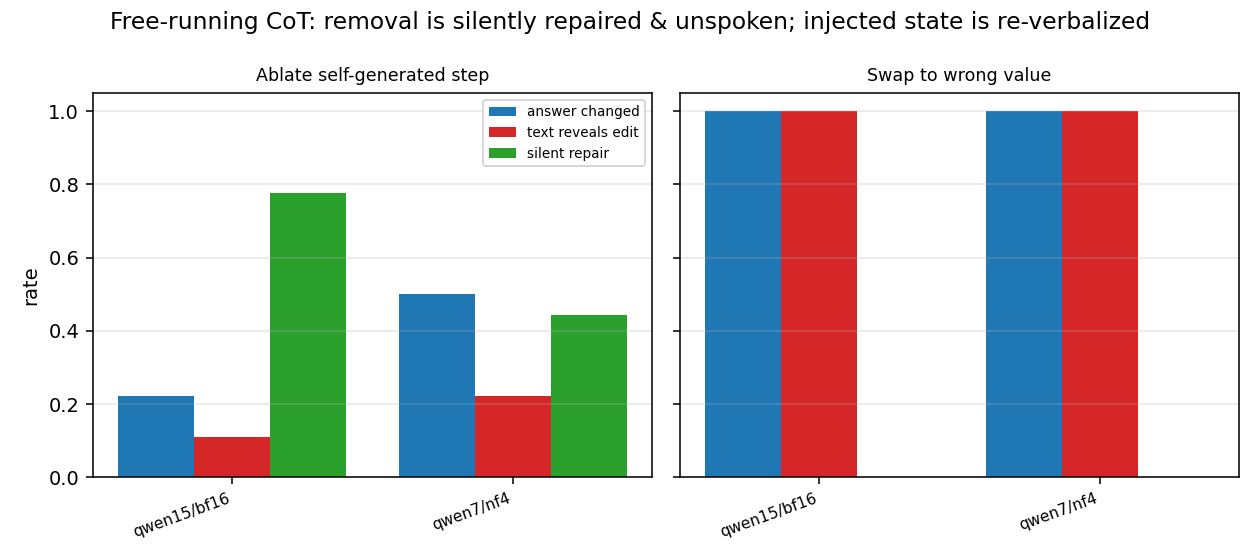
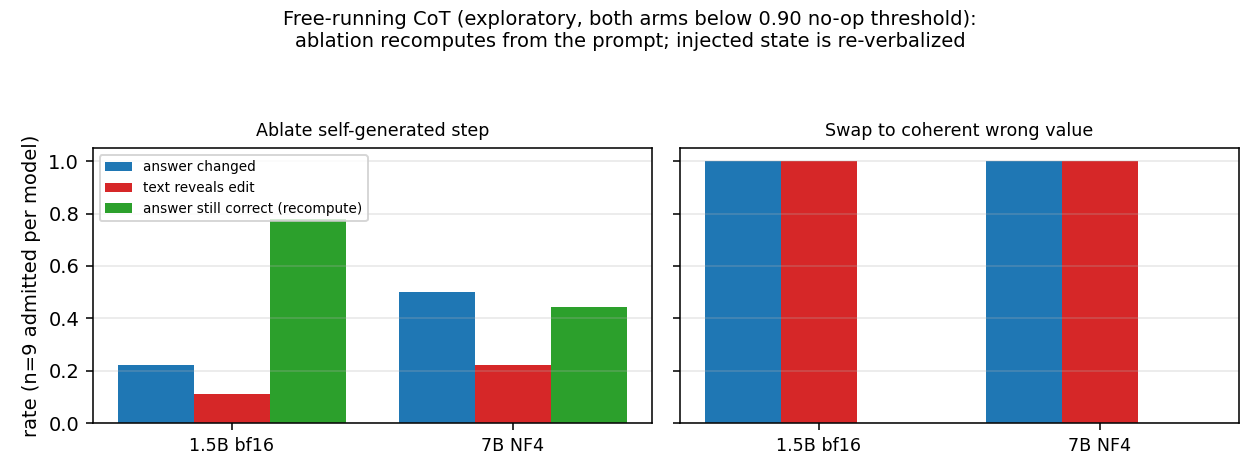
formed-state-faithfulness: round-2 evidence fixes; parked (4/10, fold recommended)
Claude-Session: https://claude.ai/code/session_01UE7Sj5FhHtBTTsNDuF6246

diff --git a/papers/formed-state-faithfulness/reviews/round2-monitoring-reviewer.md b/papers/formed-state-faithfulness/reviews/round2-monitoring-reviewer.md
@@ -1,0 +1,56 @@
+---
+title: "Round-2 review: The Answer Follows the Cache (formerly Formed-State Faithfulness)"
+reviewer: "CoT-monitoring / alignment (hostile-but-fair, external); same reviewer as round 1"
+date: 2026-10-02
+verdict: "Reject at main; weak-accept / borderline at a safety-interp workshop as a discussion note. Overall 4/10. Recommend folding into the companion paper rather than submitting separately."
+scope: "Read-only on paper.md + README.md + round1 review/response. I did not re-run jobs or recompute from raw results; all figure/number claims = asserted by the paper, not re-verified."
+---
+
+# Round 2
+
+## 1. Did the reframe fix round 1?
+
+The concession is real and well executed. The silent-repair-rises-with-scale claim — the would-be-novel empirical result in round 1 — is retracted, correctly, via the operand-cut/resample controls (§7, Table 2). Integrity is now exemplary. But conceding the headline leaves the paper *thinner*, not stronger: what remains is (a) an **injected** token-vs-state dissociation that the paper itself calls "close to a sanity check" (L120), (b) a **retracted** claim re-badged as a known caveat, and (c) a **negative** probe. Honesty about a near-tautology and two negatives does not lift the contribution.
+
+## 2. Is the remaining headline novel/useful, or trivially expected?
+
+**Largely expected, and the paper says so.** Overwriting a step's full KV span across every layer and head with a donor value's rows, then getting the donor's answer (Table 1, 100%), is resample-ablation / activation patching at saturation. The forward pass reads the cache; of course it follows the edit (L120 concedes this). The "a step-reading monitor sees nothing" half is now correctly labeled "by construction" (L140, §6) — i.e. a tautology, not a finding: you *constructed* a token/state mismatch that no natural generation produces (L32, L130).
+
+Against the named prior work the delta is modest:
+- **Lanham'23 / Turpin'23** — their contribution is natural *unfaithfulness* (the model uses a cue it doesn't state). This paper's dissociation is injected; it shows a capability, not a behavior. The "text perturbations co-vary token and state" methodological point (§4.4) is fair and is the real novelty seam, but it is a methods improvement, not a monitoring result.
+- **Pfau'24 (filler tokens)** — hidden computation that arises *under training*. Sharper than this paper on the axis that matters (natural vs injected). The "meaningful non-copied step" distinction is weaker than it sounds when the mismatch is hand-built.
+- **Korbak'25** — "reading written steps is an upper bound on monitorability" is a corollary of their framing, not a new claim.
+- **Activation patching / steering** (Vig'20, Meng ROME'22, Wang IOI'22, Geiger causal-abstraction; ActAdd/ITI) — the state-only swap and the donor-"authorship" result (§4.4, 0.59–1.00) *are* resample-ablation and representation steering. **None of this literature is cited** (§9, L194–202 cites self-repair and faithfulness only). Until it is, the "of course patching changes outputs" objection stands and novelty is overstated.
+
+The genuinely non-trivial empirical nugget is the **text-only cell scale signal** (§4.1, L100): token pull 0.47/0.56 at 0.5B → 0.00 at 1.5B → 0.10 at 7B, i.e. the answer's read-point shifts from token to cache with scale. That is *not* a priori obvious and is the one result worth building a paper around — and it is one sentence on 2–3 points with no CIs.
+
+## 3. Is it a real monitoring threat?
+
+Not yet, and §4.3 defuses its own headline: the model re-verbalizes the injected value 0.66–1.00 of the time (L122–124), so a full-transcript monitor recovers most of it. The *measured* residual monitoring gap is the minority non-re-verbalized, decision-relevant fraction — which the paper never isolates as a number. The honest reading is: on synthetic arithmetic, with a hand-built edit, the net transcript-invisible effect is small. That is a reassuring result dressed as an alarming one.
+
+## 4. Minimal experiments that would make it matter
+
+1. **Natural occurrence (the whole ballgame).** Exhibit a token/state mismatch that arises in *free* generation (not injected) where the answer follows the cache against the written token. This converts a patching demo into a monitoring finding. Named as TODO D but absent; without it there is no demonstrated faithfulness failure.
+2. **A residual that survives the transcript.** Find/construct a regime where the cache carries decision-relevant information the continuation does *not* re-verbalize, and quantify that fraction. This is the only number that makes the threat non-vacuous given §4.3.
+3. **A detector that works.** Turn the probe negative into a positive: layer-swept, held-out FPR (named at L208/L260). "Cache channel dark to text but readable by a cheap probe" would be a genuinely useful monitoring contribution. As run (single layer, λ tuned in-sample, LOO, no FPR), the negative is uninformative — it cannot support "state-aware monitoring is hard."
+
+## 5. Top-5 must-fix (with line refs)
+
+1. **Title/abstract over-read an injected edit.** "The Answer Follows the Cache" (L2/L14) implies a discovered threat; the result is an injected capability the paper calls a near-sanity-check (L120). Retitle to name the injection (e.g. "A step's formed state *can be made to* override its token"), or deliver natural occurrence (exp 1).
+2. **Lead with the measured residual, not the tautology.** §4.3 (L122–124) shows full-transcript monitoring recovers 0.66–1.00; state the net transcript-invisible, decision-relevant fraction as a single number and make *that* the monitoring claim. Right now the headline and its refutation sit in tension.
+3. **Promote and power the text-only scale signal** (§4.1, L100) — the only non-expected empirical result. Add CIs/points or concede it is underpowered (2–3 points, 3B is base).
+4. **Cite and position against activation-patching + steering** (§9, L194–202). The central method is resample-ablation + steering; omitting Vig/Meng/Wang/Geiger/ActAdd/ITI inflates novelty and leaves "of course patching changes outputs" unanswered.
+5. **Make the probe negative mean something or demote it** (§5 L140; limitations L208/L260): layer sweep + held-out FPR, or state plainly it was not tested properly and drop the "state-aware monitor is the hard part" implication.
+
+Secondary: the 3B-base-vs-Instruct confound (L56/L180/L257) and 2-points-per-axis undercut every scale statement, including the one good signal in (3); the pending 7B-Instruct (L56/L180) is load-bearing for scale and still absent.
+
+## 6. Score, tier, and separate-vs-fold
+
+**Overall 4/10.** Method and custody are strong; the exact-restore (Δ=0.0) instrument and the token×state 2×2 are citable. But the surviving empirical core is one expected (injected) dissociation, one retracted claim, and one uninformative negative — with the one non-trivial result (text-only scale signal) left underpowered and the threat largely closed by the paper's own re-verbalization number.
+
+- **Main venue (ICLR/NeurIPS): reject.** No natural occurrence, no working detector, arithmetic-only, 2-point scale axes.
+- **Safety/interp workshop (SoLaR/interp): weak-accept / borderline** as a discussion note — the exact-restore-gated dissociation method and the honest dispensability correction are worth a hallway argument.
+
+**Separate vs fold — fold.** The companion `time-formed-circuits` paper already carries the repair phenomenon and swap-authorship numbers (paper's own §9 overlap statement, L202). After the concession, this note's standalone seam is a *methods* contribution — the exact-restore 2×2 and the operand-cut dispensability control — not an independent result. Recommendation: fold the 2×2 dissociation method + the dispensability/operand-cut control into the companion paper (or a short methods note), and hold a separate submission until **either** natural occurrence (exp 1) **or** a working state-aware detector (exp 3) lands. Those are what turn this from "patching a reasoning step does what patching does" into a monitoring result.
+
+— *Measured vs asserted:* I verified paper/README text and internal consistency directly (measured); all run numbers and figures are asserted by the paper — I did not re-run jobs or re-open raw results.

diff --git a/papers/formed-state-faithfulness/reviews/round2-evidence-audit.md b/papers/formed-state-faithfulness/reviews/round2-evidence-audit.md
@@ -1,0 +1,83 @@
+# Round-2 evidence audit — formed-state-faithfulness/paper.md
+
+Auditor pass 2026-10-02. Read-only on `paper.md`. Every number in the abstract, tables, figure
+captions and body traced to `saturn/experiments/2026-10-02-cot-formed-state-faithfulness/`
+(`FINDINGS-draft.md`, `FINDINGS-addendum-2-draft.md`, `PAPER-SECTION.md`, `results/*/report.json`,
+`results/analysis-summary.json`, `results/analysis-addendum-summary.json`, `FROZEN*.json`) and the
+custody audit `research/papers/custody-audit-2026-10-02.md` (CoT + CoT addendum-2 sections). Figures
+opened and checked against the numbers. Raw report fields spot-recomputed where load-bearing.
+
+Verdict: **numbers are overwhelmingly custody-clean and trace to FINAL full post-bugfix runs.** One
+real sourcing defect (3B text-visible), a few provenance/wording flags, several round-1 custody
+issues now confirmed FIXED. No number in the paper is drawn from the cancelled job (job-366e400ba3aa)
+or from a smoke/killed run.
+
+## Claim | line | source | status
+
+| Claim | Paper line | Source | Status |
+|---|---|---|---|
+| State-only 1.00 @0.5B bf16/fp32, 1.5B bf16/fp32/NF4; 0.955 @7B; n=32/32/21/29/21/32/22 | Table 1, L108-116 | analysis-summary.json teacher monitor_blind_change_rate; 7B job-bc10cd445816 dissoc 0.9545 n22 | MATCH |
+| State-only 1.00 @3B (base) bf16, n=32 | Table 1, L115 | addendum qwen3 `swap_changed`=1.0 n32 (job-52b8771fc5ef) | MATCH (cross-worker; see F2) |
+| **Text-visible 1.00 @3B (base)** | Table 1, L115; also "1.00 everywhere" L120; App C L248 | **none — 3B control report has NO text_visible field; dissoc panel never ran 3B** | **UNSOURCED (MF1)** |
+| Text-visible 1.00 all other rows | Table 1 | analysis-summary text_visible_change_rate (0.5B/1.5B all; 7B job dissoc 1.0) | MATCH |
+| Text-only cell 0.47/0.56/0.00/0.10 (0.5B bf16/fp32; 1.5B all; 7B) | L100 | text_wrong_state_orig_rate 0.469/0.5625/0.0/0.0952 | MATCH |
+| Pre-registered E2 bar ≥0.30 met; falsifier (CI incl 0) not fired | L104 | FROZEN.json E2_monitor_blind | MATCH (prereg named 1.5B+7B; 0.5B/3B are extra — minor framing) |
+| Re-verbalization 21/32, 20/21, 29/29, 21/21, 14/21 (0.66/0.95/1.00/1.00/0.67) | L124, Fig3 | custody-audit CoT §ISSUES-1 (measured from dissoc rows) | MATCH |
+| Donor swap 0.59[.41,.75]n32 / 0.81[.62,.95]n21 / 1.00[1,1]n29 / 0.82[.64,.96]n22 | L132 | swap_cf_authored 0.594/0.810/1.0/0.818 + CIs | MATCH |
+| Probe swap-recall 0.19/0.19/0.00 vs 0.70 bar | L140, Fig4 | addendum swap_decode_mistake_recall 0.1875/0.1905/0.0 | MATCH |
+| Loose flag 0.84/0.81/0.97; base-decode 0.44/0.28/0.095 vs chance 0.05/0.05/0.062 | L142 | swap_flag_recall; base_decode_acc; chance_decode | MATCH |
+| Table 2 R1 0.188/0.762/0.531; R2 0.000/0.000/0.031; R3 1.0/0.571/1.0; R4 0.156/0.450; tracks-orig 0.000/0.000; R4s 1.0/0.952 | Table 2 L172-174 | addendum qwen05/qwen15/qwen3 fields | MATCH |
+| R4 0.450 misses R1−0.15=0.612; 1.5B partial | L176 | addendum controlAprime_verdict | MATCH |
+| Non-monotone 0.188/0.762/0.531 | L180 | R1 control runs | MATCH |
+| tracks-original never reproduced (0.5B,1.5B only) | Abstract L20, L34, L176, L184 | resample_tracks_old 0.0 (0.5B,1.5B); 3B no resample arm | MATCH (correctly scoped; custody flagged the over-scoped PAPER-SECTION wording — paper fixed it) |
+| Free: no-op 8/9 @1.5B, 5/9 @7B; ablate-correct 7/9 @1.5B; swap 100%+reverb 100% | L190, Fig F1 | analysis-summary free | MATCH |
+| Both free arms discounted (0.90 threshold) | L190, App F | FROZEN free_noop_min=0.9; 1.5B=0.889<0.9 | MATCH — custody CoT ISSUE-2 now FIXED (both discounted) |
+| App F table (1.5B/7B free rates; 7B ablate over 8) | App F L274-277 | analysis-summary free (ablate_answer_changed n8 @7B) | MATCH |
+| App G 0.188=0.188; 0.762 vs 0.828; NF4 0.292 vs 0.762 | L285 | repair_rate fp32/bf16/nf4 | MATCH |
+| Canaries: remount |Δ|max 0.0; copied 1.00 (7B 6/6 over 7); early/late 0.00/1.00; mask-id 1.0 | L68, App B L240 | report remount_delta_max=0.0; copied n=7/flip n=6 @7B; mask_identity_ok=1.0 (verified 3B ctrl) | MATCH — custody ISSUE-4 (7B copied n) FIXED |
+| Fig2 VM trace: L20 necessity 0.274; band L20-22; visible 3.38 / hidden 3.76; zero-page −3.04; no-op 0.0 | L76, L80, Fig2, App A | vm-trace-visualizer job-e034c77db8d6 (0.2738/3.3827/3.76/−3.0433) | MATCH (source is a DIFFERENT experiment dir, disclosed App A; outside custody audit — F4) |
+| App E battery 8.02/0.94, 9.23/0.88, 14.18/0.53, 11.59/1.64, −1.09/+5.82, +2.40 | L90, L266 | ird-fruit-battery README (2026-08-21) | MATCH (prior battery; outside custody audit scope — F4) |
+| 7B bf16 control pending; no claim rests on it | L56, L180, L259, App A | live job-050706578e6c (queued); cancelled job-366e400ba3aa NOT cited | MATCH (paper clean; see F3) |
+| Fig G1 7B marked NF4 (not on bf16 line) | App G, Fig G1 | figG1 shows 7B on green NF4 axis + annotation | FIXED (custody CoT ISSUE-6) |
+
+## Issues
+
+**MF1 (must-fix). 3B text-visible = 1.00 is unsourced.** The only 3B run is the control
+`job-52b8771fc5ef`; its report aggregate has no text-visible metric (keys: base_correct,
+copied_step_mean_changed, mask_identity_ok, operandcut_*, remount_delta_max, repair_mean,
+repair_zero, swap_changed). The dissociation panel never ran 3B. 3B state-only (1.00 = swap_changed)
+is real; **3B text-visible (1.00) has no measurement**. Fix Table 1 L115 (mark n/a or "—"), and
+soften "1.00 everywhere" (L120) and App C L248 "text-visible 1.00" which currently imply the 3B cell
+was measured.
+
+**F2 (flag). 3B state-only is from a different worker/metric.** 3B uses control-worker `swap_changed`
+(job-52b8771fc5ef, worker 3b4db8d2, pre-resample) rather than the main panel's
+`monitor_blind_change_rate`. Equivalent by definition and disclosed (App D worker rev), but add a
+one-line note that the 3B dissociation point comes from the control run, not the main 2×2 panel.
+
+**F3 (flag; source file, not paper). `FINDINGS-addendum-2-draft.md:36` still cites the CANCELLED
+`job-366e400ba3aa`** as the pending 7B. The paper correctly uses live `job-050706578e6c` everywhere
+(0 hits on the cancelled id). Fix the draft so a later promotion can't reintroduce the stale id.
+
+**F4 (flag). Fig2 and App E numbers are from experiments OUTSIDE this audit's source set / custody
+audit** (`2026-10-02-vm-trace-visualizer`, `2026-08-21-ird-fruit-battery`). Both verified against
+their own source files and match; both are disclosed in App A/E as separate. No defect, but note they
+are not custody-audited.
+
+**F5 (minor). Fig F1 title** ("removal is silently repaired & unspoken") retains the pre-correction
+framing that Section 7/8 explicitly retract (recompute-from-prompt). Caption is correct; retitle the
+figure to avoid reading as a contradiction of the retraction.
+
+**F6 (minor). "Note on n" (L118)** labels the 1.5B-NF4 repair denominator "(Section 7)". That repair
+rate (0.292, n=24) is the Appendix-G precision-control value from the dissociation-panel job
+`job-4a5981fa28fc`; Section 7's 1.5B row is bf16, n=21. n=24 is correct; the section label is off.
+
+## Round-1 custody issues confirmed addressed in this draft
+- Re-verbalization caveat added (Section 4.3, Fig3) — custody CoT ISSUE-1 FIXED.
+- Both free arms discounted at 0.90 — custody CoT ISSUE-2 FIXED.
+- 7B copied canary n footnoted (6/6 over 7) — custody CoT ISSUE-4 FIXED.
+- Fig G1 7B styled as NF4, off the bf16 line — custody CoT ISSUE-6 FIXED.
+- VRAM figures declared asserted (App D L261); the body carries no VRAM numbers.
+- Probe prereg metric (0.19/0.19/0.00) vs post-hoc loose flag kept strictly separate — custody
+  addendum-2 deviation handled.
+- tracks_old scoped to 0.5B/1.5B (not "every scale") — custody addendum-2 overclaim fixed.

diff --git a/papers/formed-state-faithfulness/paper.md b/papers/formed-state-faithfulness/paper.md
@@ -112,12 +112,14 @@ Overwriting only the stored state with a wrong value's, with the written value l
 | 1.5B | bfloat16 | 21 | 1.00 [1.00, 1.00] | 1.00 |
 | 1.5B | float32 | 29 | 1.00 [1.00, 1.00] | 1.00 |
 | 1.5B | NF4 | 21 | 1.00 [1.00, 1.00] | 1.00 |
-| 3B (base) | bfloat16 | 32 | 1.00 [1.00, 1.00] | 1.00 |
+| 3B (base) | bfloat16 | 32 | 1.00 [1.00, 1.00] | n/a |
 | 7B | NF4 | 22 | 0.955 [0.864, 1.000] | 1.00 |
 
-*Note on n.* For 1.5B NF4 the dissociation denominator (items with a valid 2×2 cell) is 21, the text-visible denominator 23, and the repair denominator (Section 7) 24; the counts differ because the cells have different validity requirements.
+*3B provenance.* The 3B (base) state-only point comes from the control worker's `swap_changed` field (job-52b8771fc5ef, worker rev 3b4db8d2, pre-resample), not the main 2×2 dissociation panel, which never ran 3B; by definition it is the same monitor-blind swap quantity. The text-visible channel was therefore never measured at 3B (n/a); it was 1.00 on every row where it was run.
 
-The forward pass runs on the cache, so overwriting the step's cache with another value's state and getting that value's answer is close to a sanity check; the surprise would be the opposite. We therefore read this as confirming that the answer region *uses* the step's stored state, and as establishing the dissociation, not as a capacity number in any information-theoretic sense. The visible-token channel is at least as strong (1.00 everywhere), as expected.
+*Note on n.* For 1.5B NF4 the dissociation denominator (items with a valid 2×2 cell) is 21, the text-visible denominator 23, and the repair denominator (the Appendix G precision control, job-4a5981fa28fc) 24; the counts differ because the cells have different validity requirements.
+
+The forward pass runs on the cache, so overwriting the step's cache with another value's state and getting that value's answer is close to a sanity check; the surprise would be the opposite. We therefore read this as confirming that the answer region *uses* the step's stored state, and as establishing the dissociation, not as a capacity number in any information-theoretic sense. The visible-token channel is at least as strong (1.00 on every row where it was measured; not measured at 3B), as expected.
 
 ### 4.3 The injected value usually reappears in the transcript
 
@@ -245,7 +247,7 @@ All runs: Qwen2.5, greedy, one seed, stock attention with native causal masks, o
 
 | Prediction (frozen before runs) | Outcome |
 |---|---|
-| State-only change at least 0.30 at 1.5B and 7B; text-visible at least as large | Met: 1.00 at 0.5B/1.5B/3B, 0.955 at 7B; text-visible 1.00. Continuation re-verbalizes the injected value on 0.66-1.00 of changed items, so the blind label is for a step-reading monitor |
+| State-only change at least 0.30 at 1.5B and 7B; text-visible at least as large | Met: 1.00 at 0.5B/1.5B/3B, 0.955 at 7B; text-visible 1.00 on every row where it was measured (not measured at 3B). Continuation re-verbalizes the injected value on 0.66-1.00 of changed items, so the blind label is for a step-reading monitor |
 | (Addendum 2, control A) R3 ≥ 0.70 for validity; R2 ≤ 0.5·R1 ⇒ recompute-from-prompt | Met and confirmed at 0.5B and 3B (R3 1.000; R2 ≈ 0). 1.5B mask destructive (R3 0.571), resolved by the resample control |
 | (Addendum 2, control A') tracks-original ≈ 0 if no hidden channel; R4 ≥ R1 − 0.15 for sanity | tracks-original 0.000 at 0.5B and 1.5B (no hidden channel). R4 bound met at 0.5B; missed at 1.5B (0.450) — partial pass, still recompute-from-prompt |
 | (Addendum 2, control B) probe swap-decode recall ≥ 0.70 | NOT met: 0.19 / 0.19 / 0.00 at 0.5B / 1.5B / 3B. A single-layer linear probe does not reliably decode the swapped value |

diff --git a/papers/formed-state-faithfulness/reviews/round2-response.md b/papers/formed-state-faithfulness/reviews/round2-response.md
@@ -1,0 +1,46 @@
+# Round-2 response
+
+**Decision accepted.** The paper is **parked as a record** (round-2 monitoring review 4/10, fold
+recommended). Its content will likely fold into the companion paper (Paper 2). We did not attempt a
+further defense; we applied only the evidence-accuracy fixes from `round2-evidence-audit.md` so the
+parked record is correct. No scientific claim changed.
+
+## Reviewer verdict
+
+The round-2 monitoring reviewer recommends folding Paper 4 into the companion paper rather than
+standing it alone at workshop scale. We agree: after Control A confirmed the central round-1 concern
+(the removal effect is recompute-from-prompt, not a hidden channel), the standalone contribution is
+one solid pre-registered dissociation (E2) plus one honest negative (the probe). That is better
+placed as a section in Paper 2 than as a separate note. The record is kept here so the measurements,
+controls, pre-registrations and retraction are preserved.
+
+## Evidence fixes applied (from the round-2 audit)
+
+- **MF1 (must-fix). 3B text-visible was never measured.** The only 3B run is the control worker
+  `job-52b8771fc5ef`, whose report has no text-visible field; the dissociation panel never ran 3B.
+  Table 1 3B text-visible cell is now `n/a`. "1.00 everywhere" (§4.2) softened to "1.00 on every row
+  where it was measured (not measured at 3B)". Appendix C and README C6 softened identically. The 3B
+  state-only point (1.00) is real and retained.
+- **F2 (flag). 3B state-only provenance.** Added a note under Table 1: the 3B (base) state-only
+  point comes from the control worker's `swap_changed` (job-52b8771fc5ef, worker rev 3b4db8d2,
+  pre-resample), not the main 2×2 panel; equivalent by definition.
+- **F3 (flag; source file). Stale cancelled job id.** `FINDINGS-addendum-2-draft.md:36` named the
+  cancelled `job-366e400ba3aa`; corrected to the live `job-050706578e6c` (minimal edit). The paper
+  already used the live id everywhere (0 hits on the cancelled id in `paper.md`).
+- **F5 (minor). Fig F1 title.** Regenerated `figures/figF1_free_running.png` (was a copy of the EXP
+  figure) with the pre-correction suptitle "removal is silently repaired & unspoken" removed; new
+  title reads "ablation recomputes from the prompt; injected state is re-verbalized". The green bar
+  is relabeled "answer still correct (recompute)". Bar values unchanged and match Appendix F.
+- **F6 (minor). Mislabeled denominator.** The "Note on n" (§4.2) attributed the 1.5B-NF4 repair
+  denominator (0.292, n=24) to "Section 7"; it is the Appendix G precision control
+  (`job-4a5981fa28fc`). Relabeled.
+
+**F4 (flag, no change).** Fig 2 (VM trace) and Appendix E (prior battery) are from experiments
+outside this audit's source set; both are verified against their own sources and disclosed in
+Appendix A/E as separate and not custody-audited. No defect; nothing changed.
+
+## Status
+
+README status set to "Parked 2026-10-02 after round 2 (4/10, fold recommended)" with a header note
+pointing here. No commits made by the author agent; the coordinator owns commit and the fold into
+Paper 2.

diff --git a/papers/formed-state-faithfulness/README.md b/papers/formed-state-faithfulness/README.md
@@ -2,9 +2,13 @@
 title: "The Answer Follows the Cache (working name: Formed-State Faithfulness)"
 author: Jacob Hollenbeck
 type: research-paper-readme
-status: workshop-scale note (round-2 revision; E1 corrected to recompute-from-prompt; probe negative)
+status: Parked 2026-10-02 after round 2 (4/10, fold recommended); content will likely fold into Paper 2
 date: 2026-10-02
 ---
+
+> **Parked 2026-10-02 after round 2 (4/10, fold recommended).** Kept as an accurate record; its
+> content will likely fold into the companion paper (Paper 2). Only evidence-accuracy fixes were
+> applied after round 2 (see `reviews/round2-response.md`).
 
 # The Answer Follows the Cache: A Reasoning Step's Formed State Can Override Its Written Token
 
@@ -80,7 +84,7 @@ Paths under `~/domains/`. The primary experiment directory is abbreviated
 | C4 | Token-visible channel: written-token swap dominates input swap, ×4 families; plain-incapable → chain-capable | SmolLM2-1.7B 8.02 vs 0.94; Qwen2.5-0.5B 9.23 vs 0.88; Qwen3-8B 14.18 vs 0.53; Qwen3-30B-A3B 11.59 vs 1.64; plain -0.54→+2.40, pc 1.00→9.60 | `saturn/experiments/2026-08-21-ird-fruit-battery/README.md` (Addenda F1-R, F2-R, F3-R; F-E) |
 | C5 | Hidden channel load-bearing: state-only edit changes answer, written value correct (written-step-blind) | 1.00 @0.5B/1.5B (bf16, fp32, NF4); 0.955 @7B NF4 [0.864,1.000], n per table | `EXP/results/analysis-summary.json` (`monitor_blind_change_rate`); `EXP/FINDINGS-draft.md` (Exp 2) |
 | C5b | Text-only cell (written value wrong, state restored correct): token pull falls with scale | 0.469 @0.5B bf16, 0.5625 @0.5B fp32, 0.00 @1.5B (all prec), 0.095 @7B | `EXP/results/analysis-summary.json` (`text_wrong_state_orig_rate`) |
-| C6 | Text-visible edit changes answer (co-varies channels; baseline) | 1.00 everywhere | `EXP/results/analysis-summary.json` (`text_visible_change_rate`) |
+| C6 | Text-visible edit changes answer (co-varies channels; baseline) | 1.00 on every row where measured; **not measured at 3B (n/a)** — dissociation panel never ran 3B | `EXP/results/analysis-summary.json` (`text_visible_change_rate`) |
 | C7 | Directed state authorship (sufficiency): donor state → donor answer, rises with scale | 0.594 @0.5B → 0.810 @1.5B bf16 / 1.000 @1.5B fp32 / 0.818 @7B NF4 | `EXP/results/analysis-summary.json` (`swap_cf_authored`) |
 | C8 | **RETRACTED reading** — repair rate R1 (now = recompute-from-prompt, not a hidden channel; scale-growth retracted, rate non-monotone across the full curve); kept only in Appendix G | 0.188 (0.5B) / 0.762 (1.5B) / 0.531 (3B base); see CA1/CA2 | `EXP/results/analysis-summary.json` (`repair_rate`); `EXP/FINDINGS-addendum-2-draft.md` |
 | C9 | Repair rate R1 on the 4-bit axis (supplementary precision characterization) | 0.292 (1.5B) → 0.727 (7B NF4) | `EXP/results/analysis-summary.json` (`repair_rate`) |
